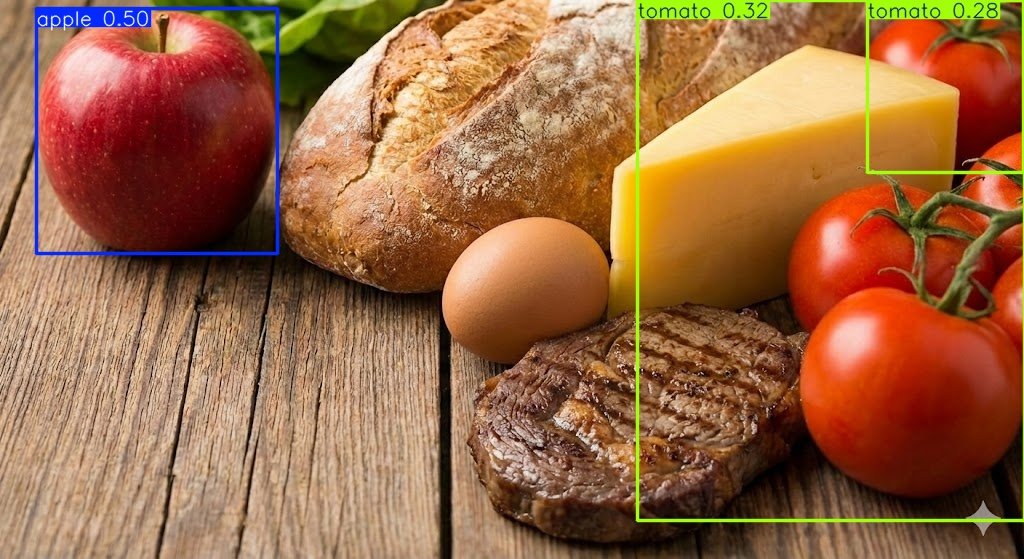
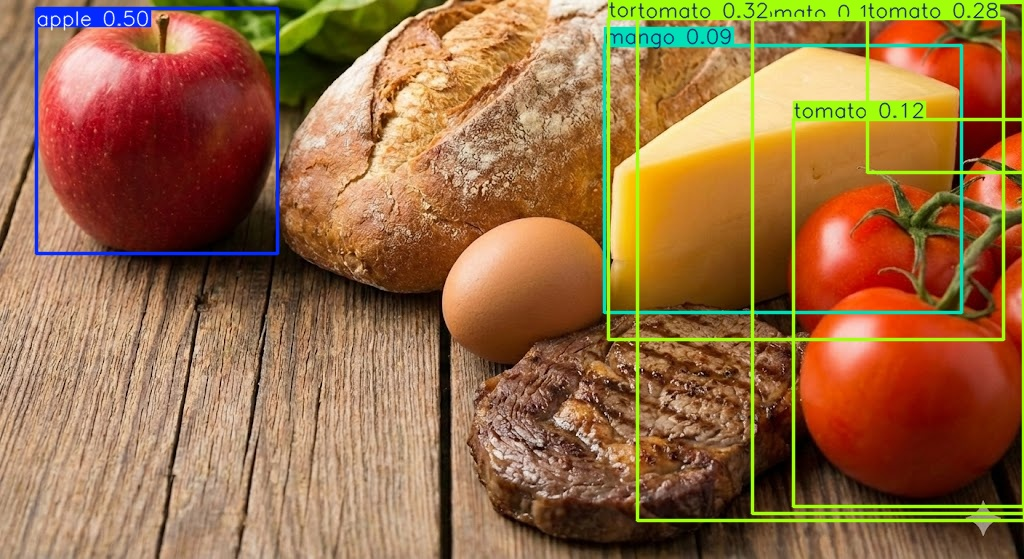
model version 1.2

Changed region(s): [[0.5625, 0.0, 1.0, 0.9428]]

diff --git a/model/vision.py b/model/vision.py
@@ -9,7 +9,7 @@ import cv2
 # 1. 載入模型 (YOLOv8 Nano)
 current_dir = os.path.dirname(os.path.abspath(__file__))
 model_path = os.path.join(current_dir, "best.pt")
-model = YOLO(model_path, task='detect')
+model = YOLO(model_path, task='detect' )
 # print(model.names)
 # 2. 定義保存期限規則 (單位：天)
 # 這裡根據你的需求設定：肉品 21天(3週), 蔬菜 14天(2週), 起司 30天(1個月)
@@ -43,7 +43,7 @@ CATEGORY_MAP = {
 
 # 4. 進行辨識
 img_path = os.path.join(current_dir, 'food/test2.jpg') # 請替換成你的圖片路徑
-results = model(img_path)
+results = model(img_path, conf=0.08)  # conf 是置信度閾值，可以根據需要調整
 
 # 5. 統計偵測到的品項數量
 detected_items = []
